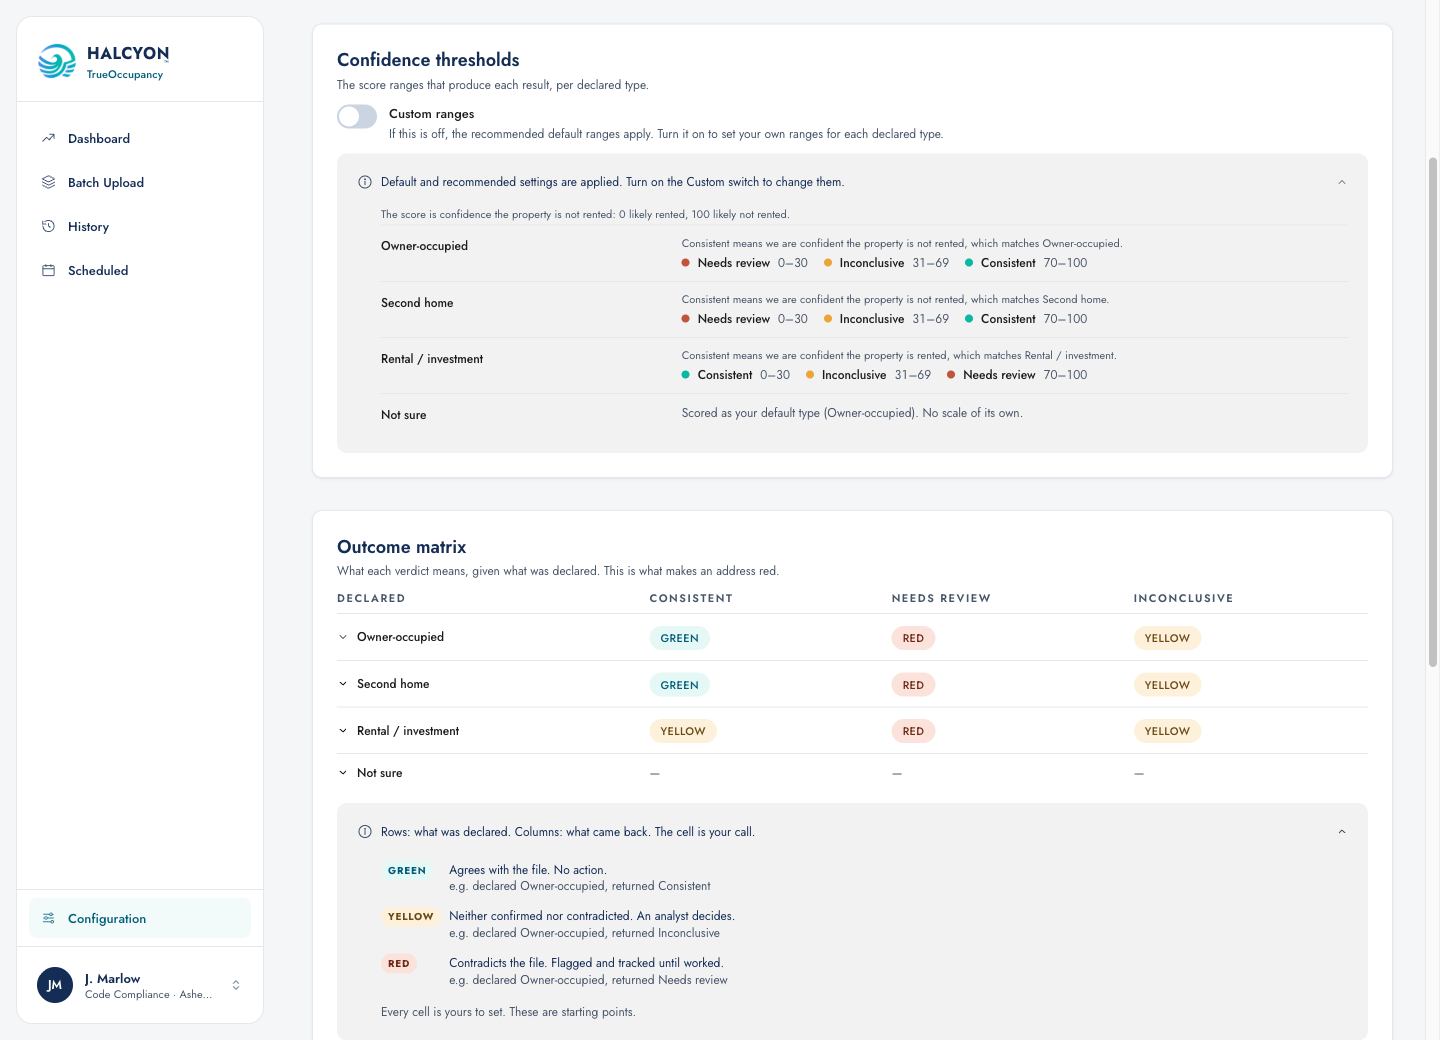
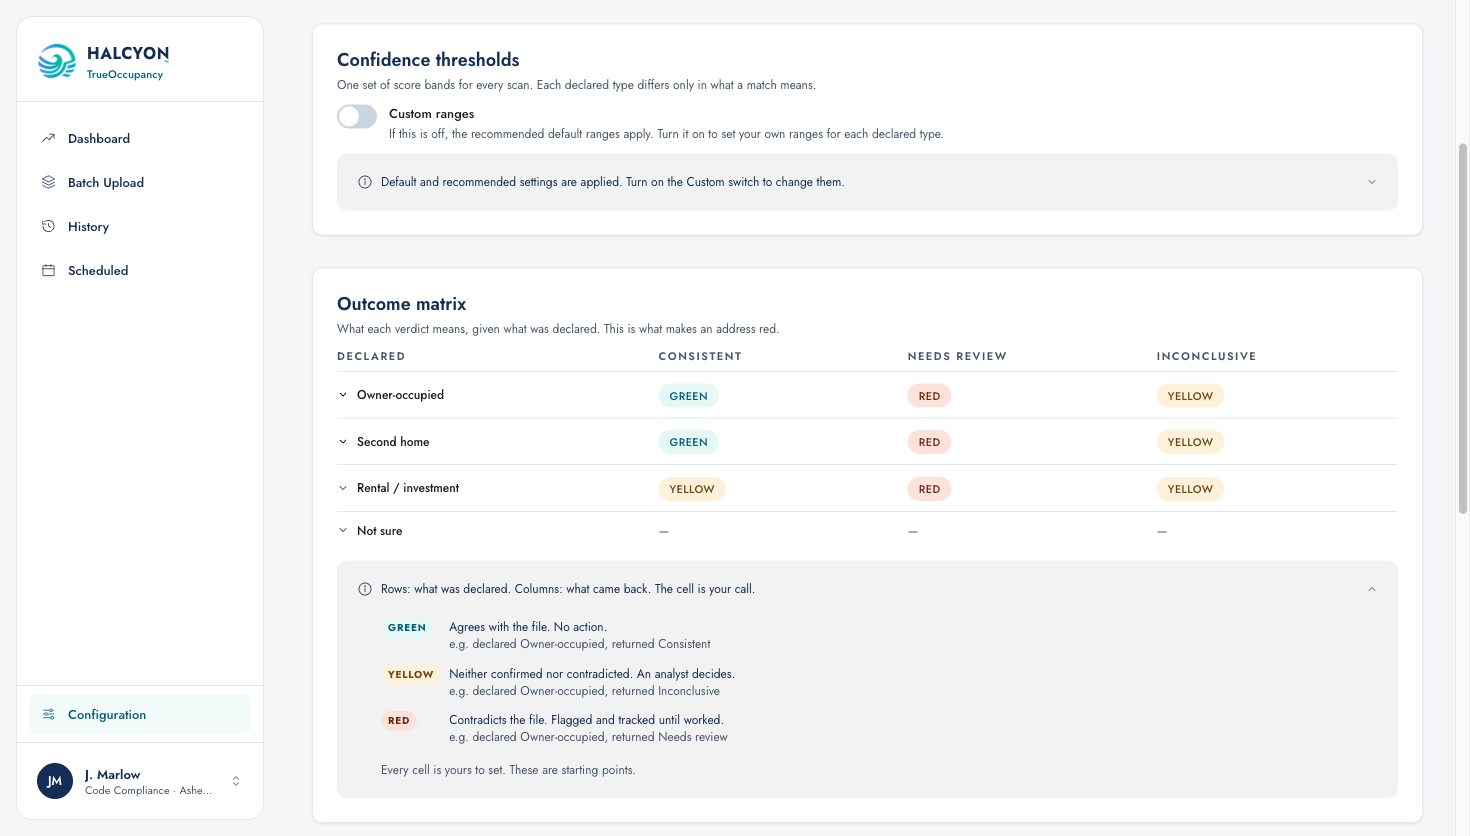
feat(config): one universal score-band bar, define each type separately (Trello #67)
Removes the redundant per-type bars: since the ranges are identical for
every declared type, the editor shows ONE universal band bar and then
defines each type separately by what a match means (owner-occupied /
second home: not rented; rental: rented, score flipped; not sure:
inherits the default type).

- bandRows (per-type) collapses to a single universal bandRow in state
  and in the saved snapshot.
- The bar's scale is neutral: 0 contradicts the declaration, 100 matches
  it. The per-type list translates a match into rented / not rented.
- Default (off) mode: collapsible panel states the bands once, then the
  same per-type meaning list, read-only.

Screenshots refreshed; per-type owner/rental shots dropped in favour of
the single custom view.

diff --git a/src/pages/ScanConfigScreen.tsx b/src/pages/ScanConfigScreen.tsx
@@ -70,7 +70,7 @@ const MATRIX_HEADER_LABEL: Record<string, string> = {
 // is a full row of its own here, seeded with a deliberately wide
 // Needs-review middle.
 //
-// Screen-local design prototype: `bandRows` is not yet part of OccConfig.
+// Screen-local design prototype: `bandRow` is not yet part of OccConfig.
 // Two recorded-not-resolved owner questions: (1) how this maps onto
 // thresholds + outcomeMatrix, which together encode the same information
 // today (hi/lo stay dormant on state so the saved shape is unchanged);
@@ -92,25 +92,33 @@ const OUTCOME_KEYS = ['consistent', 'needsReview', 'inconclusive'];
  *  ranges are 0–b1, (b1+1)–(b2−1), b2–100. */
 type BandRow = { order: [string, string, string]; b1: number; b2: number };
 
-// Recommended defaults. The score is how confident we are the property is NOT
-// rented (matching the flipped confidence shown on results: "99% confident
-// it's not rented"): 0 = looks rented, 100 = confident not rented. So the range
-// that AGREES with the declaration is Consistent, the one that CONTRADICTS it
-// is Needs review, the ambiguous middle is Inconclusive. Owner-occupied and
-// second-home want NOT rented, so Consistent sits HIGH; a rental wants rented,
-// so its scale flips end for end and Consistent sits LOW.
-const DEFAULT_BAND_ROWS: Record<string, BandRow> = {
-  'owner-occupied': { order: ['needsReview', 'inconclusive', 'consistent'], b1: 30, b2: 70 },
-  'second-home': { order: ['needsReview', 'inconclusive', 'consistent'], b1: 30, b2: 70 },
-  // Flipped: high confidence-not-rented contradicts a rental (Needs review),
-  // low (looks rented) is Consistent.
-  rental: { order: ['consistent', 'inconclusive', 'needsReview'], b1: 30, b2: 70 },
-  // Not sure has no declaration to agree with or contradict, so in Default
-  // mode it inherits the org's default type rather than showing its own bar
-  // (see the section). This row only seeds its Custom bar if the user opts in;
-  // it mirrors owner-occupied.
-  'not-sure': { order: ['needsReview', 'inconclusive', 'consistent'], b1: 30, b2: 70 },
-};
+// Recommended default. ONE universal band applies to every declared type,
+// because the ranges are identical everywhere: a contradiction reads low
+// (Needs review 0–30), the ambiguous middle is Inconclusive (31–69), a match
+// reads high (Consistent 70–100). The flip lives in the SCORE, not the layout:
+// the score is "confidence the finding matches the declaration", and for a
+// rental a match means rented while for owner-occupied it means not rented.
+// So the UI shows the bar ONCE and defines each type's meaning separately,
+// rather than repeating the same bar per type. See intentMatchIsRented.
+const DEFAULT_BAND_ROW: BandRow = { order: ['needsReview', 'inconclusive', 'consistent'], b1: 30, b2: 70 };
+
+/** Whether a MATCH for this declared type means the property is rented. True
+ *  for a rental (rented is expected, so the score is flipped to confidence-
+ *  rented); false for owner-occupied / second home. Not sure follows the
+ *  org's default type. */
+function intentMatchIsRented(intent: string, notSureResolveAs?: string): boolean {
+  if (intent === 'rental') return true;
+  if (intent === 'not-sure') return (notSureResolveAs ?? 'owner-occupied') === 'rental';
+  return false;
+}
+
+/** What a match means, in words, for the per-type list. */
+function matchMeaningLine(intent: string, matchIsRented: boolean): string {
+  if (intent === 'not-sure') return 'Scored as your default declared type.';
+  return matchIsRented
+    ? 'A match means the property is rented, so the score is flipped to confidence it is rented.'
+    : 'A match means the property is not rented.';
+}
 
 /** The three ranges a row resolves to, in score order. */
 function bandRowRanges(row: BandRow): { key: string; from: number; to: number }[] {
@@ -119,20 +127,6 @@ function bandRowRanges(row: BandRow): { key: string; from: number; to: number }[
     { key: row.order[1], from: row.b1 + 1, to: row.b2 - 1 },
     { key: row.order[2], from: row.b2, to: 100 },
   ];
-}
-
-/** One clear line stating how a declared type is gauged: what a Consistent
- *  (matching) result means for it. The score is confidence the property is not
- *  rented (0 likely rented, 100 likely not rented), so a Consistent range in
- *  the upper half reads as "confident not rented" and in the lower half as
- *  "confident rented". Reads off the live row, so it stays true when the user
- *  rearranges the bands in Custom mode. */
-function bandGaugeLine(intent: string, row: BandRow): string {
-  const cons = bandRowRanges(row).find((r) => r.key === 'consistent');
-  const notRentedEnd = (cons ? cons.from : 0) >= 50;
-  return notRentedEnd
-    ? `Consistent means we are confident the property is not rented, which matches ${OCC_INTENT_LABEL[intent]}.`
-    : `Consistent means we are confident the property is rented, which matches ${OCC_INTENT_LABEL[intent]}.`;
 }
 
 /** One declared type's control. The design is built around the point the
@@ -298,11 +292,11 @@ function OutcomeBandStrip({
           values as compact inputs under their handles — the precise,
           accessible edit path that mirrors the drag. */}
       <div className="relative h-9 mt-2">
-        <span className="absolute left-0 top-1 font-sans text-micro tabular-nums" style={{ color: 'var(--ink-4)' }}>
-          0 · likely rented
+        <span className="absolute left-0 top-1 font-sans text-micro" style={{ color: 'var(--ink-4)' }}>
+          0 · contradicts declaration
         </span>
-        <span className="absolute right-0 top-1 font-sans text-micro tabular-nums" style={{ color: 'var(--ink-4)' }}>
-          likely not rented · 100
+        <span className="absolute right-0 top-1 font-sans text-micro" style={{ color: 'var(--ink-4)' }}>
+          matches declaration · 100
         </span>
         {handles.map((h) => (
           <span
@@ -326,13 +320,40 @@ function OutcomeBandStrip({
   );
 }
 
+/** The per-type list: each declared type and what a MATCH means for it. The
+ *  bands are universal, so this is the only thing that differs per type. Used
+ *  in both the read-only defaults panel and the custom editor. */
+function TypeMeaningList({ notSureResolveAs }: { notSureResolveAs: string }) {
+  return (
+    <div className="flex flex-col">
+      {OCC_INTENTS.map((intent: string) => {
+        const matchRented = intentMatchIsRented(intent, notSureResolveAs);
+        return (
+          <div
+            key={intent}
+            className="grid gap-3 items-start border-t border-line py-2"
+            style={{ gridTemplateColumns: '1.3fr 3fr' }}
+          >
+            <span className="font-sans text-caption font-medium" style={{ color: 'var(--ink)' }}>
+              {OCC_INTENT_LABEL[intent]}
+            </span>
+            <span className="font-sans text-caption" style={{ color: 'var(--ink-3)' }}>
+              {matchMeaningLine(intent, matchRented)}
+            </span>
+          </div>
+        );
+      })}
+    </div>
+  );
+}
+
 /** Collapsible summary of the recommended defaults, mirroring the outcome
  *  matrix legend (§ MatrixLegend): a one-line summary that is itself the
- *  toggle, expanding to the per-type detail. Shown when Custom is off, so the
- *  detail can be hidden until wanted. */
-function DefaultsInfo({ defaultTypeLabel }: { defaultTypeLabel: string }) {
+ *  toggle, expanding to the universal bands + the per-type meaning list. */
+function DefaultsInfo({ notSureResolveAs }: { notSureResolveAs: string }) {
   const [open, setOpen] = React.useState(false);
   const bodyId = React.useId ? React.useId() : 'defaults-info';
+  const ranges = bandRowRanges(DEFAULT_BAND_ROW);
   return (
     <div className="rounded-lg px-card-tight py-card-tight" style={{ background: 'var(--surface-2)' }}>
       <button
@@ -357,53 +378,32 @@ function DefaultsInfo({ defaultTypeLabel }: { defaultTypeLabel: string }) {
         </span>
       </button>
       {open && (
-        <div id={bodyId} className="mt-stack pl-6 flex flex-col">
+        <div id={bodyId} className="mt-stack pl-6">
+          {/* The universal bands, stated once. */}
           <p className="font-sans text-micro m-0 mb-1" style={{ color: 'var(--ink-3)' }}>
-            The score is confidence the property is not rented: 0 likely rented, 100 likely not rented.
+            One set of bands applies to every declared type:
           </p>
-          {OCC_INTENTS.map((intent: string) => {
-            const isNotSure = intent === 'not-sure';
-            const ranges = bandRowRanges(DEFAULT_BAND_ROWS[intent]);
-            return (
-              <div
-                key={intent}
-                className="grid gap-3 items-start border-t border-line py-2.5"
-                style={{ gridTemplateColumns: '1.3fr 3fr' }}
-              >
-                <span className="font-sans text-caption font-medium pt-0.5" style={{ color: 'var(--ink)' }}>
-                  {OCC_INTENT_LABEL[intent]}
-                </span>
-                {isNotSure ? (
-                  <span className="font-sans text-caption" style={{ color: 'var(--ink-3)' }}>
-                    Scored as your default type ({defaultTypeLabel}). No scale of its own.
+          <div className="flex flex-wrap gap-x-stack gap-y-stack-tight">
+            {ranges.map((s, i) => {
+              const meta = OUTCOME_META[s.key];
+              return (
+                <span key={i} className="inline-flex items-center gap-inline">
+                  <span className={`inline-block w-2 h-2 rounded-full bg-${meta.tone}`} aria-hidden />
+                  <span className="font-sans text-caption font-medium" style={{ color: 'var(--ink)' }}>
+                    {meta.label}
                   </span>
-                ) : (
-                  <div>
-                    {/* How this type is gauged, then its ranges. */}
-                    <p className="font-sans text-micro m-0 mb-1" style={{ color: 'var(--ink-3)' }}>
-                      {bandGaugeLine(intent, DEFAULT_BAND_ROWS[intent])}
-                    </p>
-                    <div className="flex flex-wrap gap-x-stack gap-y-stack-tight">
-                      {ranges.map((s, i) => {
-                        const meta = OUTCOME_META[s.key];
-                        return (
-                          <span key={i} className="inline-flex items-center gap-inline">
-                            <span className={`inline-block w-2 h-2 rounded-full bg-${meta.tone}`} aria-hidden />
-                            <span className="font-sans text-caption font-medium" style={{ color: 'var(--ink)' }}>
-                              {meta.label}
-                            </span>
-                            <span className="font-sans text-caption tabular-nums" style={{ color: 'var(--ink-3)' }}>
-                              {s.from}–{s.to}
-                            </span>
-                          </span>
-                        );
-                      })}
-                    </div>
-                  </div>
-                )}
-              </div>
-            );
-          })}
+                  <span className="font-sans text-caption tabular-nums" style={{ color: 'var(--ink-3)' }}>
+                    {s.from}–{s.to}
+                  </span>
+                </span>
+              );
+            })}
+          </div>
+          {/* Only the meaning differs per type. */}
+          <p className="font-sans text-micro m-0 mt-stack mb-1" style={{ color: 'var(--ink-3)' }}>
+            Only the score is flipped per type, so a match always reads high. What a match means:
+          </p>
+          <TypeMeaningList notSureResolveAs={notSureResolveAs} />
         </div>
       )}
     </div>
@@ -626,16 +626,12 @@ function ScanConfigScreen({
   const [notSureResolveAs, setNotSureResolveAs] = React.useState<string>(seed.notSureResolveAs ?? 'owner-occupied');
   const [hi, setHi] = React.useState(seedInvalid ? 25 : seed.thresholds.rentedAtOrAbove);
   const [lo, setLo] = React.useState(seedInvalid ? 60 : seed.thresholds.notRentedAtOrBelow);
-  // The band rows the thresholds section edits (client direction,
-  // 2026-08-31). hi/lo above stay dormant so the saved config shape is
-  // unchanged while the rows' mapping onto it is an open owner question.
-  // No seedInvalid variant: two boundaries per row make invalid tiling
-  // inexpressible, so there is no error state to seed.
-  const [bandRows, setBandRows] = React.useState<Record<string, BandRow>>(DEFAULT_BAND_ROWS);
-  // One declared type edited at a time — a single bar on screen, chosen from
-  // the type selector, so the section is one control instead of four stacked
-  // bars. Reassigning an outcome happens in-place on the segment's dropdown.
-  const [editIntent, setEditIntent] = React.useState('owner-occupied');
+  // ONE universal band shared by every declared type (client call: the ranges
+  // are identical, only the score flips per type, so show the bar once). hi/lo
+  // above stay dormant so the saved config shape is unchanged while the
+  // mapping onto it is an open owner question. No seedInvalid variant: two
+  // boundaries make invalid tiling inexpressible, so there is no error state.
+  const [bandRow, setBandRow] = React.useState<BandRow>(DEFAULT_BAND_ROW);
   // One section-level switch (client call): off = every type uses the
   // recommended defaults, shown read-only; on = the tabs + editable bars.
   const [bandsCustom, setBandsCustom] = React.useState<boolean>(
@@ -656,7 +652,7 @@ function ScanConfigScreen({
   // Save flow: confirm → saving → saved. `baseline` is the last-saved snapshot;
   // dirty compares the live values against it so the footer collapses on save.
   const snapshot = () =>
-    JSON.stringify({ defaultIntent, notSureResolve, notSureResolveAs, hi, lo, bandRows, bandsCustom, matrix, recurring, staleDays, timeoutOn, timeoutValue, timeoutUnit });
+    JSON.stringify({ defaultIntent, notSureResolve, notSureResolveAs, hi, lo, bandRow, bandsCustom, matrix, recurring, staleDays, timeoutOn, timeoutValue, timeoutUnit });
   const [baseline, setBaseline] = React.useState(() =>
     JSON.stringify({
       defaultIntent: seed.defaultIntent,
@@ -664,7 +660,7 @@ function ScanConfigScreen({
       notSureResolveAs: seed.notSureResolveAs ?? 'owner-occupied',
       hi: seedInvalid ? 25 : seed.thresholds.rentedAtOrAbove,
       lo: seedInvalid ? 60 : seed.thresholds.notRentedAtOrBelow,
-      bandRows: DEFAULT_BAND_ROWS,
+      bandRow: DEFAULT_BAND_ROW,
       bandsCustom: !!(seed.categoryThresholds && Object.keys(seed.categoryThresholds).length),
       matrix: seed.outcomeMatrix,
       recurring: seed.recurring,
@@ -678,22 +674,21 @@ function ScanConfigScreen({
   const [saving, setSaving] = React.useState(false);
   const [justSaved, setJustSaved] = React.useState(false);
 
-  // Band-row edits. Boundaries clamp inside the strip; reassigning a
-  // segment SWAPS outcomes so each of the three is always used exactly
-  // once — validity is structural, nothing gates Save any more.
-  // (occThresholdError still guards the dormant hi/lo pair at the state
-  // level but no longer gates this screen.)
-  const setRowBoundary = (intent: string, which: 'b1' | 'b2', n: number) =>
-    setBandRows((r) => ({ ...r, [intent]: { ...r[intent], [which]: n } }));
-  const reassignSegment = (intent: string, idx: number, outcome: string) =>
-    setBandRows((r) => {
-      const row = r[intent];
-      const from = row.order.indexOf(outcome as any);
+  // Universal-band edits. Boundaries clamp inside the strip; reassigning a
+  // segment SWAPS outcomes so each of the three is always used exactly once —
+  // validity is structural, nothing gates Save. (occThresholdError still
+  // guards the dormant hi/lo pair at the state level but no longer gates this
+  // screen.)
+  const setRowBoundary = (which: 'b1' | 'b2', n: number) =>
+    setBandRow((r) => ({ ...r, [which]: n }));
+  const reassignSegment = (idx: number, outcome: string) =>
+    setBandRow((r) => {
+      const from = r.order.indexOf(outcome as any);
       if (from === idx || from < 0) return r;
-      const order = [...row.order] as BandRow['order'];
+      const order = [...r.order] as BandRow['order'];
       order[from] = order[idx];
       order[idx] = outcome;
-      return { ...r, [intent]: { ...row, order } };
+      return { ...r, order };
     });
   const dirty = forceDirty || snapshot() !== baseline;
 
@@ -706,7 +701,7 @@ function ScanConfigScreen({
     setNotSureResolveAs(b.notSureResolveAs);
     setHi(b.hi);
     setLo(b.lo);
-    setBandRows(b.bandRows ?? DEFAULT_BAND_ROWS);
+    setBandRow(b.bandRow ?? DEFAULT_BAND_ROW);
     setBandsCustom(!!b.bandsCustom);
     setMatrix(b.matrix);
     setRecurring(b.recurring);
@@ -800,7 +795,7 @@ function ScanConfigScreen({
            ThresholdBandPreview stays dormant below. */}
       <ConfigSection
         title="Confidence thresholds"
-        desc="The score ranges that produce each result, per declared type."
+        desc="One set of score bands for every scan. Each declared type differs only in what a match means."
       >
         {/* Same toggle pattern as every other switch on this screen (AI report,
             Session timeout): bold label + muted description, switch on the
@@ -814,40 +809,29 @@ function ScanConfigScreen({
 
         <div className="mt-stack-md">
           {bandsCustom ? (
-            (() => {
-              const row = bandRows[editIntent];
-              const gauge = bandGaugeLine(editIntent, row);
-              return (
-                <>
-                  {/* Four declared types as real tabs. */}
-                  <Tabs
-                    value={editIntent}
-                    onChange={(v: string) => setEditIntent(v)}
-                    items={OCC_INTENTS.map((i: string) => ({ value: i, label: OCC_INTENT_LABEL[i] }))}
-                  />
-                  {/* How this type is gauged — stated above the bar so the rule
-                      is explicit before the ranges. */}
-                  <p className="font-sans text-caption m-0 mt-stack" style={{ color: 'var(--ink-2)' }}>
-                    {gauge}
-                  </p>
-                  <div className="mt-stack">
-                    <OutcomeBandStrip
-                      row={row}
-                      onReassign={(i: number, k: string) => reassignSegment(editIntent, i, k)}
-                      onChangeB1={(n: number) => setRowBoundary(editIntent, 'b1', n)}
-                      onChangeB2={(n: number) => setRowBoundary(editIntent, 'b2', n)}
-                    />
-                  </div>
-                  <p className="font-sans text-micro text-ink-3 leading-relaxed m-0 mt-stack">
-                    The score is confidence the property is not rented (0 likely rented, 100 likely not
-                    rented). The three ranges always cover 0 to 100. Changes apply to future scans only:
-                    completed scans keep the ranges they ran under.
-                  </p>
-                </>
-              );
-            })()
+            <>
+              {/* ONE universal bar for all types (the ranges are identical). */}
+              <div className="font-sans text-eyebrow font-semibold tracking-[0.14em] uppercase mb-2" style={{ color: 'var(--ink-3)' }}>
+                Score bands (apply to every declared type)
+              </div>
+              <OutcomeBandStrip
+                row={bandRow}
+                onReassign={reassignSegment}
+                onChangeB1={(n: number) => setRowBoundary('b1', n)}
+                onChangeB2={(n: number) => setRowBoundary('b2', n)}
+              />
+              {/* Then each type defined separately: only its meaning differs. */}
+              <div className="font-sans text-eyebrow font-semibold tracking-[0.14em] uppercase mt-section-sub mb-1" style={{ color: 'var(--ink-3)' }}>
+                What a match means, per declared type
+              </div>
+              <TypeMeaningList notSureResolveAs={notSureResolve ? notSureResolveAs : 'owner-occupied'} />
+              <p className="font-sans text-micro text-ink-3 leading-relaxed m-0 mt-stack">
+                The three bands always cover 0 to 100. Changes apply to future scans only: completed
+                scans keep the ranges they ran under.
+              </p>
+            </>
           ) : (
-            <DefaultsInfo defaultTypeLabel={OCC_INTENT_LABEL[notSureResolve ? notSureResolveAs : 'owner-occupied']} />
+            <DefaultsInfo notSureResolveAs={notSureResolve ? notSureResolveAs : 'owner-occupied'} />
           )}
         </div>
       </ConfigSection>
